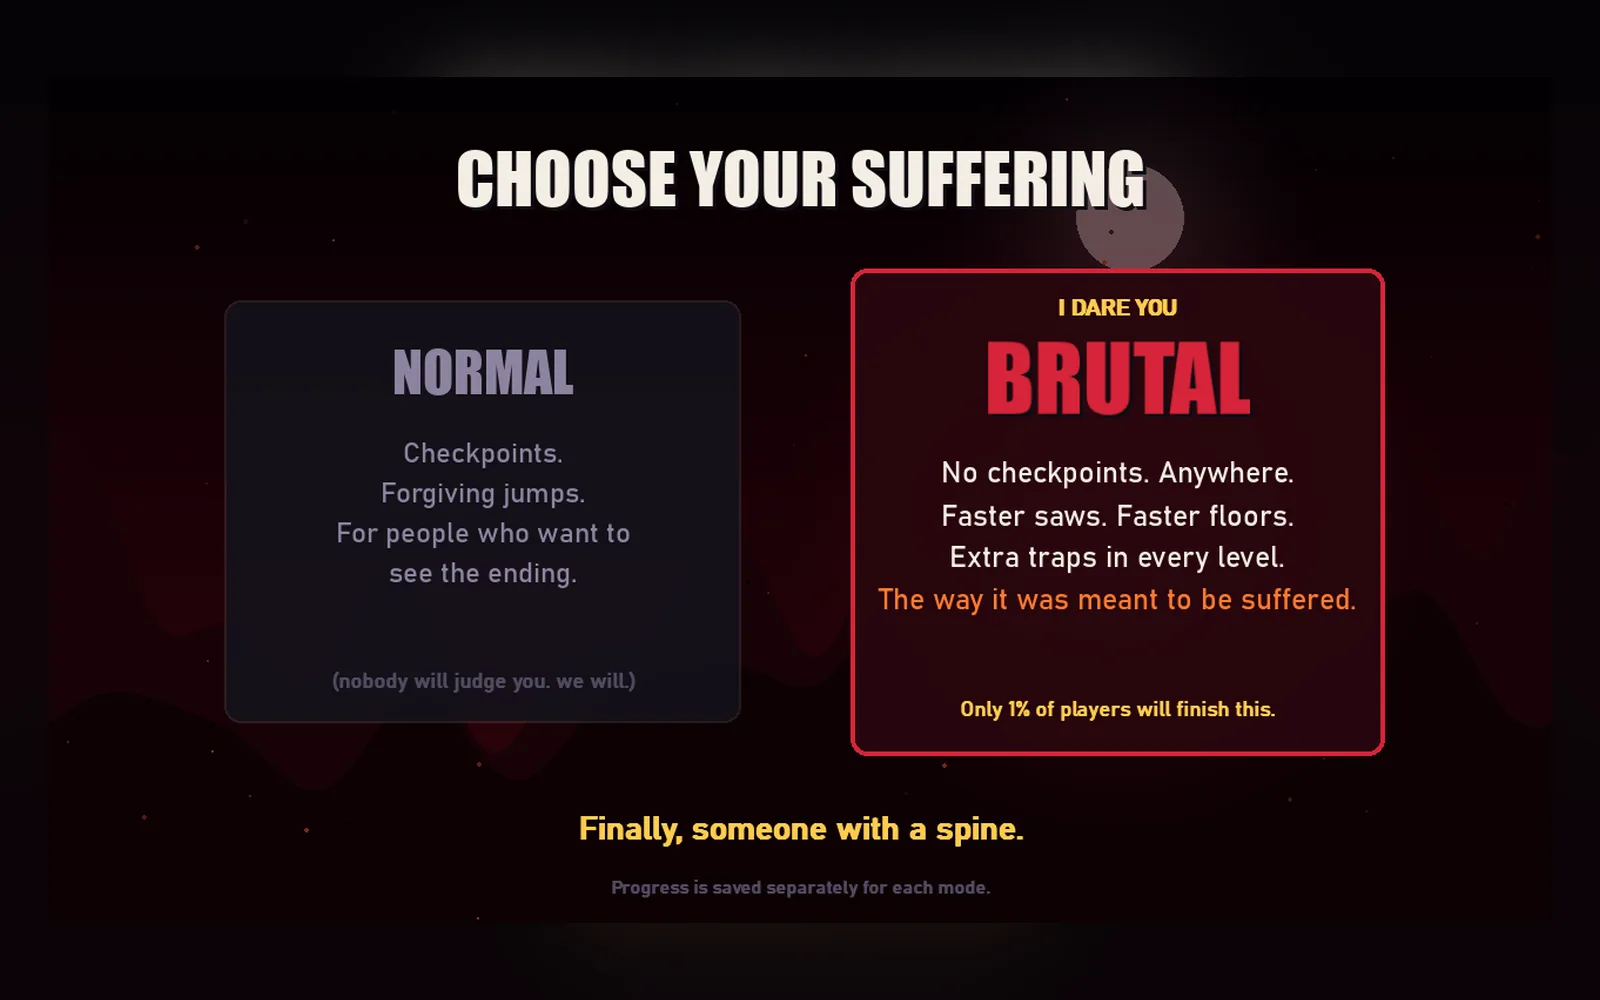
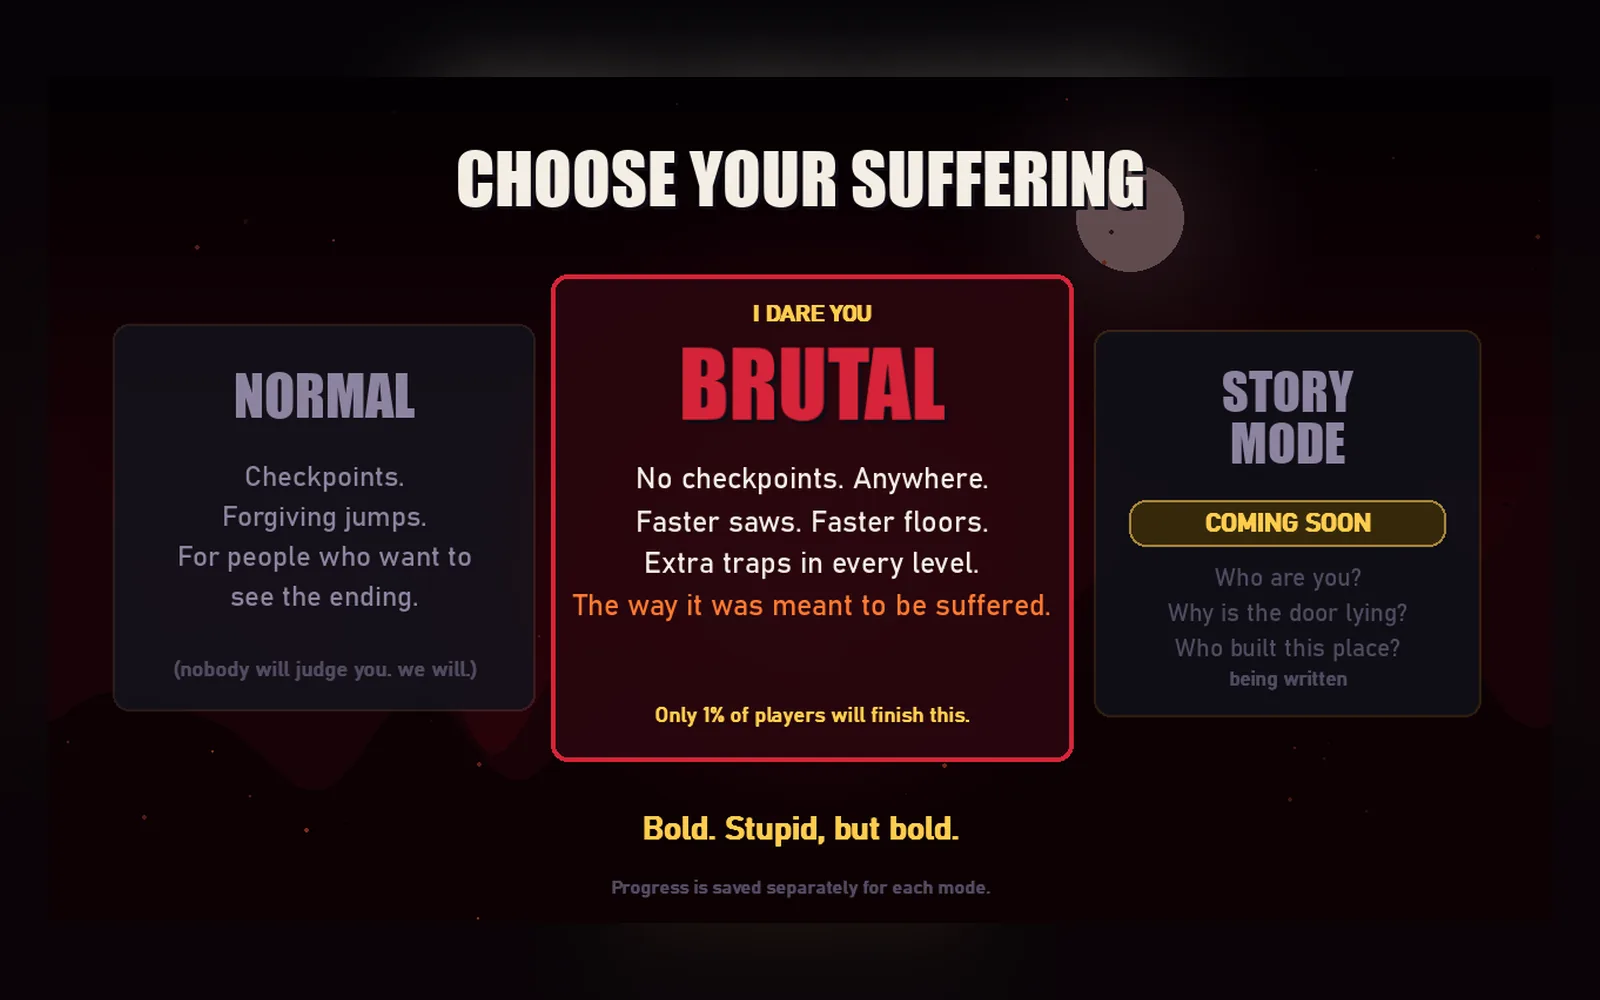
Refresh Don't Even Bother for the Spite, skins and racing update
The game added a Spite currency, 14 characters, 12 achievements, Race
the Bot against the solver's verified runs, name entry the narrator uses
against you, and a rebuilt title and mode front-end. Retake all ten
screenshots from the current build and update the card text, features,
build notes and gallery to match.

Changed region(s): [[0.0938, 0.248, 0.9062, 0.775], [0.3438, 0.806, 0.6562, 0.868]]

diff --git a/src/lib/resumeData.ts b/src/lib/resumeData.ts
@@ -441,19 +441,22 @@ export const more: Minor[] = [
     kind: 'game',
     category: 'Game · Pygame',
     summary:
-      'A troll platformer that lies to you: 19 levels across three acts, a Brutal mode with no checkpoints anywhere, and a narrator who notices where you keep dying.',
-    desc: 'A merciless troll platformer: 19 levels, two difficulty modes, and every pixel and sound generated at runtime.',
+      'A troll platformer that lies to you: 19 levels across three acts, a Brutal mode with no checkpoints anywhere, a solver bot you can race, and a narrator who calls you by name.',
+    desc: 'A merciless troll platformer: 19 levels, two difficulty modes, a bot to race, and every pixel and sound generated at runtime.',
     tech: ['Python', 'Pygame', 'NumPy', 'OOP'],
     link: `${GH}/Don-t-Even-Bother---Pure-Evil-Edition`,
     cover: '/projects/dontevenbother/cover.webp',
     gallery: [
-      shot('dontevenbother', 'cover', 'Title screen, counting every death you have ever had'),
+      shot('dontevenbother', 'cover', 'Title screen: your name, your lifetime deaths and the character you are wearing'),
       shot('dontevenbother', 'difficulty', 'Normal or Brutal — progress is saved separately for each'),
-      shot('dontevenbother', 'levels', 'Act-based level select with per-level death counts'),
-      shot('dontevenbother', 'gauntlet', 'Act II: ice floors and spiked ceilings on a 200-tile run'),
-      shot('dontevenbother', 'creatures', 'Crawlers patrol the ground and turn at ledges'),
+      shot('dontevenbother', 'levels', 'Act-based level select with a rank and a best time for every level'),
+      shot('dontevenbother', 'machines', 'Act II: ceiling lasers fire in rolling waves over a checkpoint'),
       shot('dontevenbother', 'climb', 'Act III: a vertical tower with an altitude meter'),
-      shot('dontevenbother', 'death', 'The narrator picks its taunt from how you died; blood and markers stay where you fell'),
+      shot('dontevenbother', 'race', "Race the Bot — the solver's verified run replays live beside you"),
+      shot('dontevenbother', 'cleared', 'Clearing a level ranks it and itemises the Spite it paid out'),
+      shot('dontevenbother', 'skins', '14 characters, each a different shape, face and headgear'),
+      shot('dontevenbother', 'awards', '12 achievements, most of them earned by accident'),
+      shot('dontevenbother', 'death', 'The narrator picks its taunt from how you died — and uses your name'),
     ],
     details: {
       overview:
@@ -463,14 +466,17 @@ export const more: Minor[] = [
         'Normal and Brutal modes with separate saves — Brutal removes every checkpoint, speeds hazards up 25–30% and layers extra traps into each map',
         'Traps that lie: fake ground, crumbling floors, hidden spikes, fake walls and doors, reversed controls and lights-out sections',
         'Creatures and machines with their own behaviour: patrolling crawlers, mimics that jump exactly when you jump, ceiling swoopers, aiming sentries, lasers, cannons, conveyors, ice, and an echo that replays your last few seconds and chases you with it',
-        'A narrator with 86 taunts chosen by how you died, that notices when you die on the same spot twice',
+        'A narrator with 86 taunts chosen by how you died, that notices when you die on the same spot twice and calls you by the name you typed at the start',
+        "Race the Bot: the solver's verified run replays live beside you, so every level has a par time that is provably achievable",
+        'Spite, a currency paid for clean clears, better times and finished acts (dying pays one coin, capped, so farming deaths never pays), spent on 14 characters — 4 bought, the rest earned — alongside 12 achievements',
         'Every graphic, sound effect and all five music tracks are synthesised at startup — the game ships no art or audio files',
       ],
       build: [
         'Deterministic simulation: physics runs at a fixed 120 Hz and World holds a level’s rules with no drawing or sound, emitting events the scene turns into juice',
         'Class hierarchy from an abstract Entity — blocks, hazards, creatures, doors, checkpoints; Act I levels are ASCII maps with a scripting layer, and the long levels are glued together from reusable chunks',
-        'Scene stack (splash, title, difficulty, act cards, level select, settings, credits, game) with fades; paged tile rendering and spatial buckets keep the 300-tile levels fast',
-        'Dev tools ship a best-first search bot that plays the real simulation to beat levels and saves its inputs, plus a 39-test unittest suite that replays every saved run',
+        'Fourteen scenes behind one stack — title, name entry, mode select, difficulty, act cards, level select, skins and awards, settings, credits, play and race — with fades; paged tile rendering and spatial buckets keep the 300-tile levels fast',
+        'Dev tools ship a best-first search bot that plays the real simulation to beat levels and saves its inputs; those recordings become both the bot you race and the fixtures an 84-test unittest suite replays',
+        'Payout rules and cosmetics live in their own modules as pure functions over plain numbers, so the economy can be tested without starting pygame or touching a save',
         'Keyboard, mouse and gamepad input on a fixed 1280×720 canvas scaled to any display',
       ],
       stats: [
